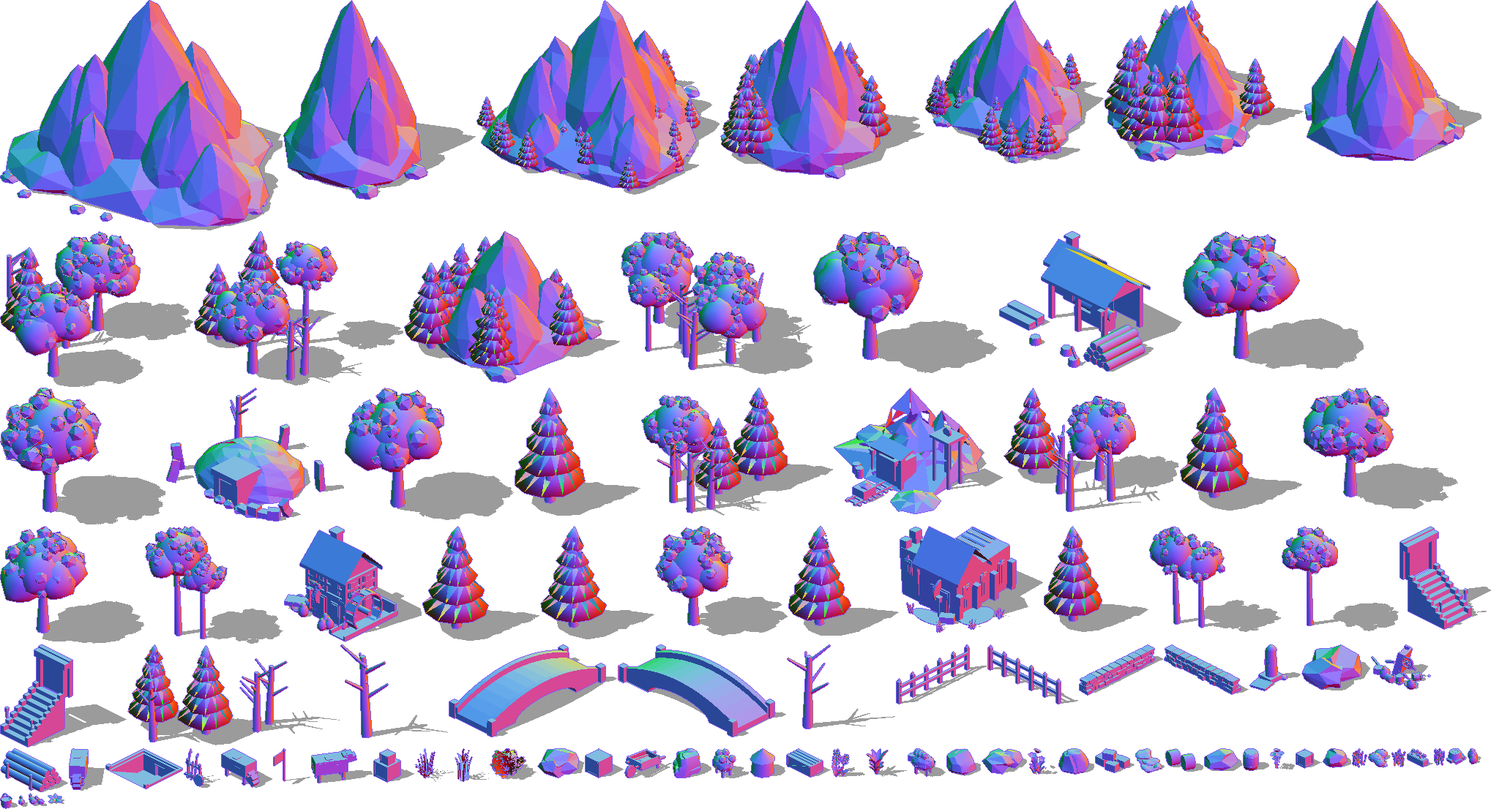
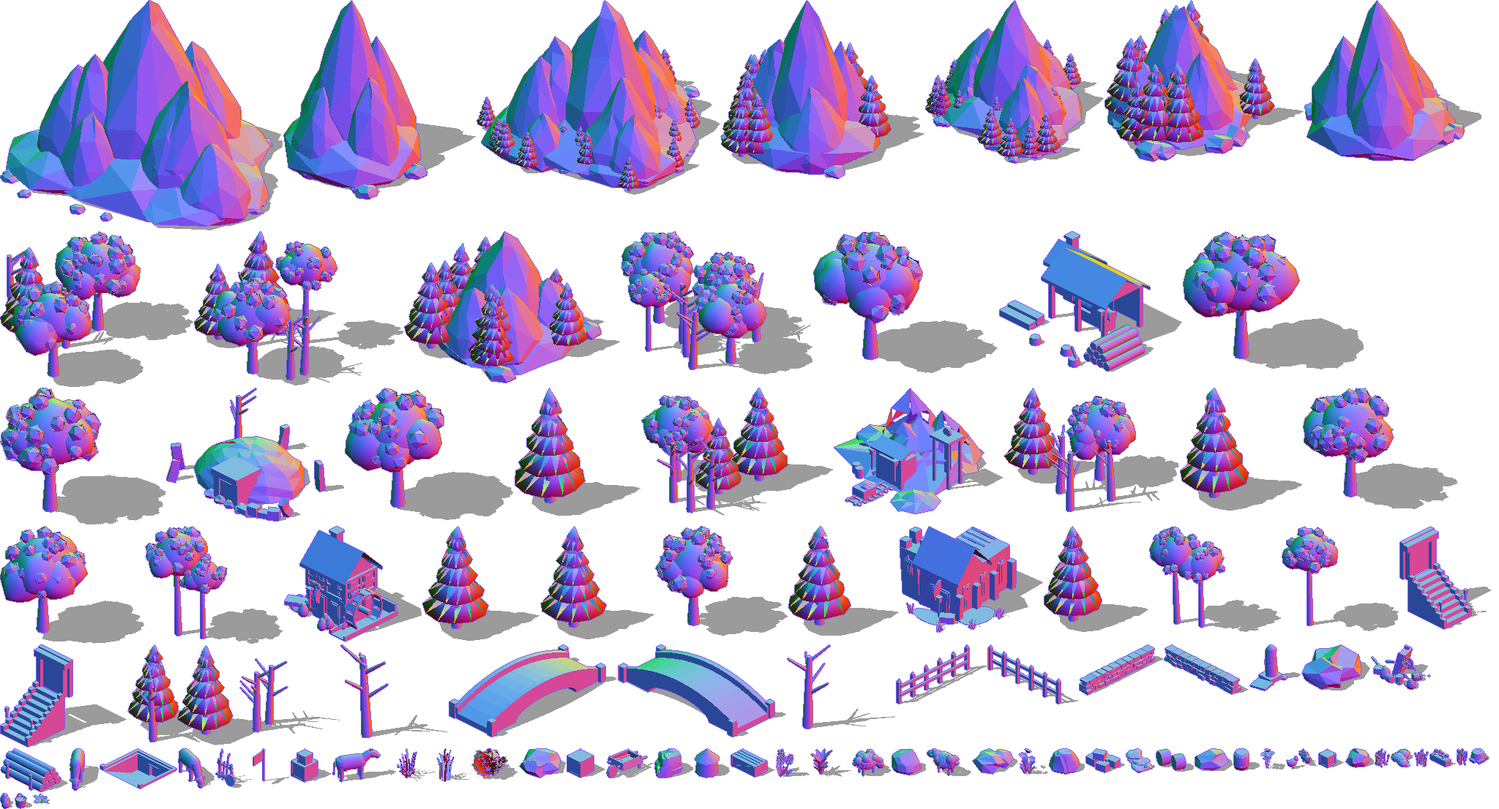
The beasts, critic pass: rounded cows, sheep and hens; herds that place
The owner: the animals are too blocky. The cows were bricks: a box body
with square patches stuck on, a cube head with no neck, posts for legs.
The sheep had a cube head; the hens were a few facets each.

Rebuilt in buildkit.js and re-baked:
- Cows: a capsule barrel with hips and udder, a neck to a tapered head
  with muzzle, ears and curved horns (some dark-headed with a blaze),
  tapered legs on hooves, a tail to a tassel. The patches are painted
  into the hide texture: irregular blobs, three along the spine (what
  the camera sees) and four round the flanks. Vertex and face colours
  smeared or striped them.
- Sheep: a finer fleece of curls, a larger dark wedge of a face with
  ears and topknot, thin legs, a tail.
- Hens: teardrop bodies with cocked tails, comb, beak, wattle and legs,
  some pecking, a quarter larger.

Herds that never placed:
- Thornwick's sheep pasture lay in the forest ring (0 sheep); they now
  graze between the north field and the road (5).
- The Vale's cow pasture placed no cow and now holds the brook; the
  cows graze between the mill track and the river (4).
- The fields' walls are placed before the herds, which keep round them.

Tests 270/270, check green.

Claude-Session: https://claude.ai/code/session_015iJE9saRx1hCYJHRMUYeGn

Changed region(s): [[0.0, 0.9222, 1.0, 1.0]]

diff --git a/src/sim/envfoot.js b/src/sim/envfoot.js
@@ -1,4 +1,4 @@
 // envfoot.js — GENERATED by tools/actor-lab/bake-env.cjs. Do not edit.
 // Ground footprint of each baked environment sprite, in tiles relative to its
 // origin: [x0, y0, x1, y1]. Used for collision and placement.
-export const ENV_FOOT = {"pine_1":[-4.13,-4.18,4.39,4.34],"pine_2":[-4.81,-4.8,5.12,5],"pine_3":[-4.98,-5.01,5,4.96],"pine_4":[-5.13,-5.38,5.48,5.19],"pine_5":[-4.8,-4.87,4.86,4.58],"pine_6":[-4.76,-4.68,4.81,4.84],"oak_1":[-6.75,-7.14,6.33,6.1],"oak_2":[-5.79,-6.35,5.76,6.08],"oak_3":[-6.48,-6.65,6.29,5.96],"oak_4":[-6.59,-6.8,6.43,6.89],"autumn_1":[-6.59,-6.88,6.22,6.33],"autumn_2":[-5.57,-5.73,5.51,5.75],"autumn_3":[-5.1,-5.47,5.08,5.06],"birch_1":[-4.93,-3.24,2.73,4.21],"birch_2":[-4.81,-4.29,4.6,3.62],"birch_3":[-5.17,-3.57,4.88,4.81],"dead_1":[-2.24,-2.81,2.66,2.62],"dead_2":[-2.56,-1.87,2.98,3.05],"grove_1":[-9.86,-8.38,6.88,6.28],"grove_2":[-10.59,-7.13,5.79,8.69],"grove_3":[-10.94,-8,11.15,9.36],"grove_4":[-10.79,-8.1,8.04,10.5],"grove_5":[-9.42,-11.89,11.01,10.13],"grove_6":[-7.78,-9.39,8.91,8.76],"bridge_0":[-3.6,-9.7,3.6,9.7],"bridge_90":[-9.7,-3.6,9.7,3.6],"rock_A":[-2.18,-2.03,2.19,2.41],"rock_B":[-2.03,-2.12,2.06,1.97],"rock_C":[-3.06,-3.35,3.32,3.55],"rock_D":[-2.7,-3.56,2.22,2.22],"rock_E":[-3.72,-3.84,4.19,6.22],"mountain_A_grass_trees":[-10.67,-10.54,11.17,11.99],"mountain_B_grass_trees":[-12.25,-12.31,11.91,11.79],"mountain_C_grass_trees":[-11.39,-10.97,11.31,12.47],"mountain_A":[-10,-10.64,10.64,10.58],"mountain_B":[-11.58,-11.7,12.29,12.11],"mountain_massif_A":[-37.07,-33.75,43.44,35.17],"mountain_massif_B":[-30.31,-33,30.17,32.15],"mountain_massif_C":[-24.46,-24.21,25.04,24.61],"ruin":[-9.37,-9.66,9.14,6.89],"mine_0":[-11.55,-10.95,8.49,11.1],"lumbermill_90":[-10.3,-7.1,9.4,8.9],"barrel":[-0.89,-0.94,0.89,0.94],"crate_A_big":[-1.12,-1.12,1.12,1.19],"crate_A_small":[-0.72,-0.72,0.72,0.79],"crate_B_big":[-1.12,-1.12,1.12,1.19],"crate_long_A":[-2.02,-1.02,2.02,1.09],"sack":[-0.62,-0.49,1.25,1.36],"wheelbarrow":[-1.32,-2.69,1.32,3.23],"weaponrack":[-1.2,-0.19,2.1,0.81],"bucket_water":[-0.65,-0.65,0.65,0.65],"resource_lumber":[-3.33,-1.78,3.33,2.15],"resource_stone":[-1.7,-1.97,1.75,0.83],"flag_red":[-0.16,-0.12,0.16,1.84],"stump":[-1.06,-1.15,1.12,1.1],"fence_0":[-0.25,-6.05,0.3,6.05],"fence_90":[-6.05,-0.3,6.05,0.25],"drywall_0":[-0.83,-5.8,0.8,5.78],"drywall_90":[-5.8,-0.8,5.78,0.83],"stairsup_0":[-2.6,-4.15,2.6,3.1],"stairsup_90":[-4.15,-2.6,3.1,2.6],"stairsdown_0":[-3.38,-3.8,3.38,3.01],"watermill_0":[-6.12,-4.3,5.3,5.38],"chapelruin_0":[-6.67,-5.7,7.63,8.85],"milestone_0":[-1.68,-1.61,1.66,3.1],"wagon_0":[-4.9,-1.55,4.09,3.62],"ug_bush":[-2.03,-2.14,2.18,2.18],"ug_fern":[-3.54,-3.27,3.7,3.52],"ug_plant":[-1.95,-2.32,2.09,2.06],"ug_flowers_1":[-0.86,-1.12,1.22,1.11],"ug_flowers_2":[-1.3,-0.89,1.19,1.02],"ug_grass_1":[-1.48,-1.64,1.6,1.55],"ug_grass_2":[-0.81,-0.96,0.98,1.03],"ug_clover":[-1,-0.94,0.7,0.73],"ug_mushroom":[-1.62,-0.82,1.79,1.94],"rock_F":[-2.07,-1.38,1.8,2.21],"rock_G":[-2.06,-1.39,1.6,1.58],"rock_H":[-2.19,-1.07,1.91,3.1],"wheat_1":[-0.69,-0.8,0.76,0.68],"wheat_2":[-0.71,-0.84,0.73,0.93],"wheat_3":[-0.9,-0.69,0.81,0.84],"cow_1":[-2.3,-1.02,3.05,1.01],"cow_2":[-1.82,-2.99,1.99,2.21],"cow_3":[-2.01,-2.14,2.3,2.62],"sheep_1":[-1.89,-1.61,1.84,1.64],"sheep_2":[-1.87,-1.47,1.74,1.45],"hens_1":[-0.72,-1.38,1.89,1.25],"pumpkins_1":[-1.77,-1.16,1.14,1.73],"hay_1":[-2.02,-1,2.02,1.25],"hay_2":[-1.48,-1.41,1.48,1.5],"planter_1":[-1.3,-0.4,1.3,0.4],"vale_tavern_1":[-8.45,-6.72,7.25,6.3],"vale_inn_1":[-7.1,-4.4,10.48,5.1],"vale_shop_1":[-4.2,-4.2,5.72,5.07],"vale_temple_1":[-6.81,-6.95,4.5,7.84],"vale_well_1":[-2.1,-1.8,2.1,1.8],"vale_house_1":[-4.7,-4,4.7,4],"vale_house_2":[-4.7,-4,4.7,4],"vale_house_3":[-4.7,-4,4.7,4],"vale_housex_1":[-4,-4.7,4,4.7],"vale_housex_2":[-4,-4.7,4,4.7],"vale_farm_1":[-9.63,-5.7,9.77,7.63],"vale_farmx_1":[-5.7,-9.77,7.63,9.63],"vale_keep_1":[-6.37,-6.45,6.37,6.45],"vale_wall_1":[-11,-1.7,11,2.1],"vale_smith_1":[-4.3,-5.36,4.8,5.2],"vale_curtain_1":[-10.09,-2,10.15,2],"vale_curtainy_1":[-2,-10.15,2,10.09],"vale_tower_1":[-4.1,-4.1,4.1,4.1],"vale_gatehousey_1":[-3,-7.5,3,7.5],"fens_tavern_1":[-8.45,-6.72,7.25,6.3],"fens_inn_1":[-7.1,-4.4,10.48,5.1],"fens_shop_1":[-4.2,-4.2,5.72,5.07],"fens_temple_1":[-6.81,-6.95,4.5,7.84],"fens_well_1":[-2.1,-1.8,2.1,1.8],"fens_house_1":[-4.7,-4,4.7,4],"fens_house_2":[-4.7,-4,4.7,4],"fens_house_3":[-4.7,-4,4.7,4],"fens_housex_1":[-4,-4.7,4,4.7],"fens_housex_2":[-4,-4.7,4,4.7],"fens_farm_1":[-9.63,-5.7,9.77,7.63],"fens_farmx_1":[-5.7,-9.77,7.63,9.63],"fens_keep_1":[-6.37,-6.45,6.37,6.45],"fens_wall_1":[-11,-1.7,11,2.1],"fens_smith_1":[-4.3,-5.36,4.8,5.2],"fens_curtain_1":[-10,-1.6,10.3,1.6],"fens_curtainy_1":[-1.6,-10.3,1.6,10],"fens_tower_1":[-3.7,-3.8,3.7,3.8],"fens_gatehousey_1":[-3,-7,5.7,7],"reach_tavern_1":[-8.45,-6.72,7.25,6.3],"reach_inn_1":[-7.1,-4.4,10.48,5.1],"reach_shop_1":[-4.2,-4.2,5.72,5.07],"reach_temple_1":[-6.81,-6.95,4.5,7.84],"reach_well_1":[-2.1,-1.8,2.1,1.8],"reach_house_1":[-4.7,-4,4.7,4],"reach_house_2":[-4.7,-4,4.7,4],"reach_house_3":[-4.7,-4,4.7,4],"reach_housex_1":[-4,-4.7,4,4.7],"reach_housex_2":[-4,-4.7,4,4.7],"reach_farm_1":[-9.63,-5.7,9.77,7.63],"reach_farmx_1":[-5.7,-9.77,7.63,9.63],"reach_keep_1":[-6.37,-6.45,6.37,6.45],"reach_wall_1":[-11,-1.7,11,2.1],"reach_smith_1":[-4.3,-5.36,4.8,5.2],"reach_curtain_1":[-10,-1.6,10.3,1.6],"reach_curtainy_1":[-1.6,-10.3,1.6,10],"reach_tower_1":[-3.7,-3.8,3.7,3.8],"reach_gatehousey_1":[-3,-7,5.7,7],"heights_tavern_1":[-8.45,-6.72,7.25,6.3],"heights_inn_1":[-7.1,-4.4,10.48,5.1],"heights_shop_1":[-4.2,-4.2,5.72,5.07],"heights_temple_1":[-6.81,-6.95,4.5,7.84],"heights_well_1":[-2.1,-1.8,2.1,1.8],"heights_house_1":[-4.7,-4,4.7,4],"heights_house_2":[-4.7,-4,4.7,4],"heights_house_3":[-4.7,-4,4.7,4],"heights_housex_1":[-4,-4.7,4,4.7],"heights_housex_2":[-4,-4.7,4,4.7],"heights_farm_1":[-9.63,-5.7,9.77,7.63],"heights_farmx_1":[-5.7,-9.77,7.63,9.63],"heights_keep_1":[-6.37,-6.45,6.37,6.45],"heights_wall_1":[-11,-1.7,11,2.1],"heights_smith_1":[-4.3,-5.36,4.8,5.2],"heights_curtain_1":[-10,-1.6,10.3,1.6],"heights_curtainy_1":[-1.6,-10.3,1.6,10],"heights_tower_1":[-3.7,-3.8,3.7,3.8],"heights_gatehousey_1":[-3,-7,5.7,7]};
+export const ENV_FOOT = {"pine_1":[-4.13,-4.18,4.39,4.34],"pine_2":[-4.81,-4.8,5.12,5],"pine_3":[-4.98,-5.01,5,4.96],"pine_4":[-5.13,-5.38,5.48,5.19],"pine_5":[-4.8,-4.87,4.86,4.58],"pine_6":[-4.76,-4.68,4.81,4.84],"oak_1":[-6.75,-7.14,6.33,6.1],"oak_2":[-5.79,-6.35,5.76,6.08],"oak_3":[-6.48,-6.65,6.29,5.96],"oak_4":[-6.59,-6.8,6.43,6.89],"autumn_1":[-6.59,-6.88,6.22,6.33],"autumn_2":[-5.57,-5.73,5.51,5.75],"autumn_3":[-5.1,-5.47,5.08,5.06],"birch_1":[-4.93,-3.24,2.73,4.21],"birch_2":[-4.81,-4.29,4.6,3.62],"birch_3":[-5.17,-3.57,4.88,4.81],"dead_1":[-2.24,-2.81,2.66,2.62],"dead_2":[-2.56,-1.87,2.98,3.05],"grove_1":[-9.86,-8.38,6.88,6.28],"grove_2":[-10.59,-7.13,5.79,8.69],"grove_3":[-10.94,-8,11.15,9.36],"grove_4":[-10.79,-8.1,8.04,10.5],"grove_5":[-9.42,-11.89,11.01,10.13],"grove_6":[-7.78,-9.39,8.91,8.76],"bridge_0":[-3.6,-9.7,3.6,9.7],"bridge_90":[-9.7,-3.6,9.7,3.6],"rock_A":[-2.18,-2.03,2.19,2.41],"rock_B":[-2.03,-2.12,2.06,1.97],"rock_C":[-3.06,-3.35,3.32,3.55],"rock_D":[-2.7,-3.56,2.22,2.22],"rock_E":[-3.72,-3.84,4.19,6.22],"mountain_A_grass_trees":[-10.67,-10.54,11.17,11.99],"mountain_B_grass_trees":[-12.25,-12.31,11.91,11.79],"mountain_C_grass_trees":[-11.39,-10.97,11.31,12.47],"mountain_A":[-10,-10.64,10.64,10.58],"mountain_B":[-11.58,-11.7,12.29,12.11],"mountain_massif_A":[-37.07,-33.75,43.44,35.17],"mountain_massif_B":[-30.31,-33,30.17,32.15],"mountain_massif_C":[-24.46,-24.21,25.04,24.61],"ruin":[-9.37,-9.66,9.14,6.89],"mine_0":[-11.55,-10.95,8.49,11.1],"lumbermill_90":[-10.3,-7.1,9.4,8.9],"barrel":[-0.89,-0.94,0.89,0.94],"crate_A_big":[-1.12,-1.12,1.12,1.19],"crate_A_small":[-0.72,-0.72,0.72,0.79],"crate_B_big":[-1.12,-1.12,1.12,1.19],"crate_long_A":[-2.02,-1.02,2.02,1.09],"sack":[-0.62,-0.49,1.25,1.36],"wheelbarrow":[-1.32,-2.69,1.32,3.23],"weaponrack":[-1.2,-0.19,2.1,0.81],"bucket_water":[-0.65,-0.65,0.65,0.65],"resource_lumber":[-3.33,-1.78,3.33,2.15],"resource_stone":[-1.7,-1.97,1.75,0.83],"flag_red":[-0.16,-0.12,0.16,1.84],"stump":[-1.06,-1.15,1.12,1.1],"fence_0":[-0.25,-6.05,0.3,6.05],"fence_90":[-6.05,-0.3,6.05,0.25],"drywall_0":[-0.83,-5.8,0.8,5.78],"drywall_90":[-5.8,-0.8,5.78,0.83],"stairsup_0":[-2.6,-4.15,2.6,3.1],"stairsup_90":[-4.15,-2.6,3.1,2.6],"stairsdown_0":[-3.38,-3.8,3.38,3.01],"watermill_0":[-6.12,-4.3,5.3,5.38],"chapelruin_0":[-6.67,-5.7,7.63,8.85],"milestone_0":[-1.68,-1.61,1.66,3.1],"wagon_0":[-4.9,-1.55,4.09,3.62],"ug_bush":[-2.03,-2.14,2.18,2.18],"ug_fern":[-3.54,-3.27,3.7,3.52],"ug_plant":[-1.95,-2.32,2.09,2.06],"ug_flowers_1":[-0.86,-1.12,1.22,1.11],"ug_flowers_2":[-1.3,-0.89,1.19,1.02],"ug_grass_1":[-1.48,-1.64,1.6,1.55],"ug_grass_2":[-0.81,-0.96,0.98,1.03],"ug_clover":[-1,-0.94,0.7,0.73],"ug_mushroom":[-1.62,-0.82,1.79,1.94],"rock_F":[-2.07,-1.38,1.8,2.21],"rock_G":[-2.06,-1.39,1.6,1.58],"rock_H":[-2.19,-1.07,1.91,3.1],"wheat_1":[-0.69,-0.8,0.76,0.68],"wheat_2":[-0.71,-0.84,0.73,0.93],"wheat_3":[-0.9,-0.69,0.81,0.84],"cow_1":[-2.23,-1.26,3.32,1.47],"cow_2":[-1.59,-3.37,2.14,2.06],"cow_3":[-1.78,-1.91,2.44,2.81],"sheep_1":[-2.67,-1.44,1.86,1.44],"sheep_2":[-1.46,-2.63,1.49,1.85],"hens_1":[-1.36,-1.34,1.27,2.35],"pumpkins_1":[-1.77,-1.16,1.14,1.73],"hay_1":[-2.02,-1,2.02,1.25],"hay_2":[-1.48,-1.41,1.48,1.5],"planter_1":[-1.3,-0.4,1.3,0.4],"vale_tavern_1":[-8.45,-6.72,7.25,6.3],"vale_inn_1":[-7.1,-4.4,10.48,5.1],"vale_shop_1":[-4.2,-4.2,5.72,5.07],"vale_temple_1":[-6.81,-6.95,4.5,7.84],"vale_well_1":[-2.1,-1.8,2.1,1.8],"vale_house_1":[-4.7,-4,4.7,4],"vale_house_2":[-4.7,-4,4.7,4],"vale_house_3":[-4.7,-4,4.7,4],"vale_housex_1":[-4,-4.7,4,4.7],"vale_housex_2":[-4,-4.7,4,4.7],"vale_farm_1":[-9.63,-5.7,9.77,7.63],"vale_farmx_1":[-5.7,-9.77,7.63,9.63],"vale_keep_1":[-6.37,-6.45,6.37,6.45],"vale_wall_1":[-11,-1.7,11,2.1],"vale_smith_1":[-4.3,-5.36,4.8,5.2],"vale_curtain_1":[-10.09,-2,10.15,2],"vale_curtainy_1":[-2,-10.15,2,10.09],"vale_tower_1":[-4.1,-4.1,4.1,4.1],"vale_gatehousey_1":[-3,-7.5,3,7.5],"fens_tavern_1":[-8.45,-6.72,7.25,6.3],"fens_inn_1":[-7.1,-4.4,10.48,5.1],"fens_shop_1":[-4.2,-4.2,5.72,5.07],"fens_temple_1":[-6.81,-6.95,4.5,7.84],"fens_well_1":[-2.1,-1.8,2.1,1.8],"fens_house_1":[-4.7,-4,4.7,4],"fens_house_2":[-4.7,-4,4.7,4],"fens_house_3":[-4.7,-4,4.7,4],"fens_housex_1":[-4,-4.7,4,4.7],"fens_housex_2":[-4,-4.7,4,4.7],"fens_farm_1":[-9.63,-5.7,9.77,7.63],"fens_farmx_1":[-5.7,-9.77,7.63,9.63],"fens_keep_1":[-6.37,-6.45,6.37,6.45],"fens_wall_1":[-11,-1.7,11,2.1],"fens_smith_1":[-4.3,-5.36,4.8,5.2],"fens_curtain_1":[-10,-1.6,10.3,1.6],"fens_curtainy_1":[-1.6,-10.3,1.6,10],"fens_tower_1":[-3.7,-3.8,3.7,3.8],"fens_gatehousey_1":[-3,-7,5.7,7],"reach_tavern_1":[-8.45,-6.72,7.25,6.3],"reach_inn_1":[-7.1,-4.4,10.48,5.1],"reach_shop_1":[-4.2,-4.2,5.72,5.07],"reach_temple_1":[-6.81,-6.95,4.5,7.84],"reach_well_1":[-2.1,-1.8,2.1,1.8],"reach_house_1":[-4.7,-4,4.7,4],"reach_house_2":[-4.7,-4,4.7,4],"reach_house_3":[-4.7,-4,4.7,4],"reach_housex_1":[-4,-4.7,4,4.7],"reach_housex_2":[-4,-4.7,4,4.7],"reach_farm_1":[-9.63,-5.7,9.77,7.63],"reach_farmx_1":[-5.7,-9.77,7.63,9.63],"reach_keep_1":[-6.37,-6.45,6.37,6.45],"reach_wall_1":[-11,-1.7,11,2.1],"reach_smith_1":[-4.3,-5.36,4.8,5.2],"reach_curtain_1":[-10,-1.6,10.3,1.6],"reach_curtainy_1":[-1.6,-10.3,1.6,10],"reach_tower_1":[-3.7,-3.8,3.7,3.8],"reach_gatehousey_1":[-3,-7,5.7,7],"heights_tavern_1":[-8.45,-6.72,7.25,6.3],"heights_inn_1":[-7.1,-4.4,10.48,5.1],"heights_shop_1":[-4.2,-4.2,5.72,5.07],"heights_temple_1":[-6.81,-6.95,4.5,7.84],"heights_well_1":[-2.1,-1.8,2.1,1.8],"heights_house_1":[-4.7,-4,4.7,4],"heights_house_2":[-4.7,-4,4.7,4],"heights_house_3":[-4.7,-4,4.7,4],"heights_housex_1":[-4,-4.7,4,4.7],"heights_housex_2":[-4,-4.7,4,4.7],"heights_farm_1":[-9.63,-5.7,9.77,7.63],"heights_farmx_1":[-5.7,-9.77,7.63,9.63],"heights_keep_1":[-6.37,-6.45,6.37,6.45],"heights_wall_1":[-11,-1.7,11,2.1],"heights_smith_1":[-4.3,-5.36,4.8,5.2],"heights_curtain_1":[-10,-1.6,10.3,1.6],"heights_curtainy_1":[-1.6,-10.3,1.6,10],"heights_tower_1":[-3.7,-3.8,3.7,3.8],"heights_gatehousey_1":[-3,-7,5.7,7]};

diff --git a/tools/actor-lab/buildkit.js b/tools/actor-lab/buildkit.js
@@ -767,39 +767,83 @@ function wheatMesh(r, v) {
 // Farmyard life (critic pass 11e: the reference's village is busy with cows, hay, pumpkins and flowers; ours
 // stood bare). Low-poly, built in code like the rest; animals stand still, grazing or looking about.
 function lump(geo, r, amt) { const p = geo.attributes.position; for (let i = 0; i < p.count; i++) p.setXYZ(i, p.getX(i) * (1 + (r() - 0.5) * amt), p.getY(i) * (1 + (r() - 0.5) * amt), p.getZ(i) * (1 + (r() - 0.5) * amt)); geo.computeVertexNormals(); return geo; }
-function cowMesh(r, v) {
-  const g = new THREE.Group(), white = flat('#d6cfc0'), black = flat('#262020'), pink = flat('#d08a7c'), horn = flat('#d8cfb4');
-  const body = new THREE.Mesh(new THREE.BoxGeometry(0.4, 0.17, 0.19), white); body.position.y = 0.2; g.add(body);
-  for (const [px, py] of [[-0.11, 0.23], [0.07, 0.18]]) {           // two patches, proud of the hide on every side, one over the back
-    const w = 0.07 + r() * 0.03, h = 0.07 + r() * 0.03, pt = new THREE.Mesh(new THREE.BoxGeometry(w, h, 0.2), black);
-    pt.position.set(px + (r() - 0.5) * 0.03, py, 0); g.add(pt);
+// The farmyard (critic pass 11e, re-made 2026-10-03: the owner found the beasts too blocky: a brick of a cow with
+// square patches stuck on, a cube for a head, no neck; posts for a sheep's legs; hens of a few facets). Now rounded:
+// a barrel of a body with patches painted into the hide, a neck, a tapered head and muzzle, ears, curved horns,
+// tapered legs, an udder and a tasselled tail; a fleece over a dark wedge face; hens as teardrops with a cocked tail.
+const smooth = (color) => new THREE.MeshStandardMaterial({ color: new THREE.Color(color), roughness: 0.9 });
+// a piebald hide, painted: dark blobs (each a few overlapping ellipses, so its edge is irregular) on a pale coat,
+// wrapped round the body by its UVs (vertex or face colours smeared, or striped along the capsule's long faces)
+function hideTex(r, base, dark) {
+  const S = 64, c = document.createElement('canvas'); c.width = c.height = S; const x = c.getContext('2d');
+  x.fillStyle = base; x.fillRect(0, 0, S, S); x.fillStyle = dark;
+  // three over the back, along the spine (a quarter of the way round the capsule, u 0.25: what the camera sees most),
+  // larger, then four round the barrel for the flanks
+  for (let i = 0; i < 7; i++) {
+    const back = i < 3, cx = back ? S * 0.25 + (r() - 0.5) * 8 : (i - 3 + 0.2 + r() * 0.6) * S / 4, cy = back ? 10 + i * 22 + (r() - 0.5) * 6 : 8 + r() * (S - 16), k0 = back ? 1.5 : 1;
+    for (let k = 0; k < 3; k++) for (const ox of [-S, 0, S]) { x.beginPath(); x.ellipse(cx + ox + (r() - 0.5) * 9, cy + (r() - 0.5) * 7, (4 + r() * 5) * k0, (3 + r() * 4) * k0, r() * 3, 0, 6.29); x.fill(); }
   }
-  const top = new THREE.Mesh(new THREE.BoxGeometry(0.08, 0.012, 0.09), black); top.position.set(-0.02, 0.29, 0.02); g.add(top);
-  const graze = v % 2 === 0, head = new THREE.Group(); head.position.set(0.22, graze ? 0.1 : 0.27, 0); head.rotation.z = graze ? -0.6 : 0.1; g.add(head);
-  const hd = new THREE.Mesh(new THREE.BoxGeometry(0.11, 0.1, 0.1), white); head.add(hd);
-  const hp = new THREE.Mesh(new THREE.BoxGeometry(0.06, 0.104, 0.104), black); hp.position.x = -0.03; head.add(hp);
-  const muz = new THREE.Mesh(new THREE.BoxGeometry(0.05, 0.06, 0.09), pink); muz.position.set(0.07, -0.02, 0); head.add(muz);
-  for (const sz of [-1, 1]) { const h = new THREE.Mesh(new THREE.ConeGeometry(0.012, 0.05, 4), horn); h.position.set(-0.01, 0.07, sz * 0.045); h.rotation.x = sz * 0.6; head.add(h); const e = new THREE.Mesh(new THREE.BoxGeometry(0.02, 0.025, 0.04), black); e.position.set(-0.02, 0.03, sz * 0.065); head.add(e); }
-  for (const [x, z] of [[0.15, 0.06], [0.15, -0.06], [-0.15, 0.06], [-0.15, -0.06]]) { const l = new THREE.Mesh(new THREE.CylinderGeometry(0.018, 0.016, 0.12, 5), white); l.position.set(x, 0.06, z); g.add(l); const hf = new THREE.Mesh(new THREE.BoxGeometry(0.03, 0.02, 0.03), black); hf.position.set(x, 0.01, z); g.add(hf); }
-  const tail = new THREE.Mesh(new THREE.CylinderGeometry(0.006, 0.006, 0.14, 4), white); tail.position.set(-0.21, 0.17, 0); tail.rotation.z = 0.2; g.add(tail);
+  const t = new THREE.CanvasTexture(c); t.magFilter = THREE.NearestFilter; t.minFilter = THREE.NearestFilter; t.wrapS = THREE.RepeatWrapping; t.colorSpace = THREE.SRGBColorSpace;
+  return t;
+}
+const ellipsoid = (r, sx, sy, sz, m, x, y, z, parent, seg = 10) => { const e = new THREE.Mesh(new THREE.SphereGeometry(r, seg, Math.max(6, seg - 2)), m); e.scale.set(sx, sy, sz); e.position.set(x, y, z); parent.add(e); return e; };
+function limb(parent, m, x0, y0, z0, x1, y1, z1, r0, r1) {      // a tapered cylinder from one point to another
+  const a = new THREE.Vector3(x0, y0, z0), b = new THREE.Vector3(x1, y1, z1), len = a.distanceTo(b);
+  const c = new THREE.Mesh(new THREE.CylinderGeometry(r1, r0, len, 7), m); c.position.copy(a).add(b).multiplyScalar(0.5);
+  c.quaternion.setFromUnitVectors(new THREE.Vector3(0, 1, 0), b.clone().sub(a).normalize()); parent.add(c); return c;
+}
+function cowMesh(r, v) {
+  const g = new THREE.Group(), W = '#d6cfc0', K = '#262020', white = smooth(W), black = smooth(K), pink = smooth('#c08478'), horn = smooth('#d8cfb4');
+  // the barrel: a capsule along x, a little deeper than wide, in a painted piebald hide
+  const geo = new THREE.CapsuleGeometry(0.085, 0.2, 8, 20); geo.rotateZ(Math.PI / 2); geo.scale(1, 1.05, 0.9);
+  const body = new THREE.Mesh(geo, new THREE.MeshStandardMaterial({ map: hideTex(r, W, K), roughness: 0.9 })); body.position.y = 0.215; g.add(body);
+  ellipsoid(0.05, 1.2, 0.8, 1.3, white, -0.13, 0.25, 0, g);                   // the hips
+  ellipsoid(0.03, 1.2, 0.8, 1, pink, -0.07, 0.13, 0, g);                      // the udder
+  // legs, tapered, a dark hoof at each foot
+  for (const [x, z] of [[0.12, 0.05], [0.12, -0.05], [-0.13, 0.05], [-0.13, -0.05]]) {
+    limb(g, white, x, 0.18, z, x + (r() - 0.5) * 0.02, 0.025, z, 0.024, 0.016);
+    const hf = new THREE.Mesh(new THREE.CylinderGeometry(0.017, 0.019, 0.025, 7), black); hf.position.set(x, 0.012, z); g.add(hf);
+  }
+  // the neck and head: grazing (head down to the grass) or looking up
+  const graze = v % 2 === 0, hx = graze ? 0.26 : 0.27, hy = graze ? 0.07 : 0.29, darkHead = v % 3 === 1, hm = darkHead ? black : white;
+  limb(g, white, 0.15, 0.24, 0, hx - 0.03, hy + 0.02, 0, 0.055, 0.04);
+  const head = new THREE.Group(); head.position.set(hx, hy, 0); head.rotation.z = graze ? -1.0 : -0.25; g.add(head);
+  ellipsoid(0.045, 1.35, 0.95, 0.9, hm, 0.01, 0, 0, head);                     // the skull, longer than deep
+  ellipsoid(0.034, 1, 0.85, 1.05, pink, 0.065, -0.012, 0, head);              // the muzzle
+  if (darkHead) ellipsoid(0.02, 1.6, 0.5, 0.6, white, 0.02, 0.03, 0, head);   // a white blaze
+  for (const sz of [-1, 1]) {
+    const e = ellipsoid(0.022, 0.5, 0.35, 1, hm, -0.015, 0.025, sz * 0.05, head); e.rotation.x = sz * 0.5;   // ears, out to the side
+    const h = new THREE.Mesh(new THREE.ConeGeometry(0.009, 0.04, 6), horn); h.position.set(-0.005, 0.045, sz * 0.03); h.rotation.x = sz * -0.9; h.rotation.z = 0.3; head.add(h);
+  }
+  // the tail: hanging from the rump to a dark tassel
+  limb(g, white, -0.2, 0.25, 0, -0.215, 0.11, 0.01, 0.007, 0.006);
+  ellipsoid(0.014, 0.8, 1.6, 0.8, black, -0.215, 0.1, 0.01, g, 6);
   g.rotation.y = r() * 0.6 - 0.3; return g;
 }
 function sheepMesh(r, v) {
-  const g = new THREE.Group(), wool = flat('#ece6d6'), face = flat('#2b2622');
-  const body = new THREE.Mesh(lump(new THREE.IcosahedronGeometry(0.11, 1), r, 0.18), wool); body.scale.set(1.35, 0.9, 1); body.position.y = 0.15; g.add(body);
-  for (let i = 0; i < 6; i++) { const t = new THREE.Mesh(new THREE.IcosahedronGeometry(0.05, 0), wool); t.position.set((r() - 0.5) * 0.22, 0.2 + r() * 0.05, (r() - 0.5) * 0.14); g.add(t); }   // the fleece's tufts
-  const graze = v % 2 === 1, hd = new THREE.Mesh(new THREE.BoxGeometry(0.07, 0.07, 0.06), face); hd.position.set(0.15, graze ? 0.07 : 0.18, 0); g.add(hd);
-  for (const [x, z] of [[0.07, 0.05], [0.07, -0.05], [-0.07, 0.05], [-0.07, -0.05]]) { const l = new THREE.Mesh(new THREE.CylinderGeometry(0.012, 0.012, 0.09, 4), face); l.position.set(x, 0.045, z); g.add(l); }
+  const g = new THREE.Group(), wool = flat('#ece6d6'), face = smooth('#2b2622');
+  const body = new THREE.Mesh(lump(new THREE.IcosahedronGeometry(0.11, 2), r, 0.12), wool); body.scale.set(1.35, 0.9, 1); body.position.y = 0.155; g.add(body);
+  for (let i = 0; i < 12; i++) { const t = new THREE.Mesh(new THREE.IcosahedronGeometry(0.035 + r() * 0.02, 1), wool); const a = r() * 6.28; t.position.set(Math.cos(a) * 0.12, 0.17 + r() * 0.07, Math.sin(a) * 0.08); g.add(t); }   // the fleece's curls
+  const graze = v % 2 === 1, head = new THREE.Group(); head.position.set(0.18, graze ? 0.07 : 0.2, 0); head.rotation.z = graze ? -0.9 : -0.2; g.add(head);
+  ellipsoid(0.045, 1.4, 0.95, 0.85, face, 0.015, 0, 0, head);                 // a dark wedge of a face
+  const cap = new THREE.Mesh(new THREE.IcosahedronGeometry(0.036, 1), wool); cap.position.set(-0.025, 0.03, 0); head.add(cap);   // the topknot
+  for (const sz of [-1, 1]) { const e = ellipsoid(0.024, 1.2, 0.4, 0.6, face, -0.005, 0.008, sz * 0.05, head); e.rotation.y = sz * 0.6; }   // ears
+  for (const [x, z] of [[0.07, 0.045], [0.07, -0.045], [-0.07, 0.045], [-0.07, -0.045]]) limb(g, face, x, 0.1, z, x, 0.0, z, 0.011, 0.008);
+  const tail = new THREE.Mesh(new THREE.IcosahedronGeometry(0.025, 1), wool); tail.position.set(-0.16, 0.17, 0); g.add(tail);
   g.rotation.y = r() * 6.28; return g;
 }
 function hensMesh(r) {
-  const g = new THREE.Group(), feather = [flat('#efe8da'), flat('#a5652e'), flat('#efe8da')], comb = flat('#c8322a'), beak = flat('#d8a23a');
+  const g = new THREE.Group(), feather = [smooth('#efe8da'), smooth('#a5652e'), smooth('#efe8da'), smooth('#5a3a22')], comb = smooth('#c8322a'), beak = smooth('#d8a23a');
   for (let i = 0; i < 4; i++) {
-    const h = new THREE.Group(); h.position.set((r() - 0.5) * 0.3, 0, (r() - 0.5) * 0.3); h.rotation.y = r() * 6.28; g.add(h);
-    const b = new THREE.Mesh(new THREE.IcosahedronGeometry(0.035, 0), feather[i % 3]); b.scale.set(1.3, 1, 1); b.position.y = 0.05; h.add(b);
-    const hd = new THREE.Mesh(new THREE.BoxGeometry(0.025, 0.028, 0.022), feather[i % 3]); hd.position.set(0.04, 0.08, 0); h.add(hd);
-    const c = new THREE.Mesh(new THREE.BoxGeometry(0.014, 0.012, 0.006), comb); c.position.set(0.04, 0.1, 0); h.add(c);
-    const k = new THREE.Mesh(new THREE.BoxGeometry(0.012, 0.008, 0.008), beak); k.position.set(0.058, 0.078, 0); h.add(k);
+    const h = new THREE.Group(), peck = r() < 0.4; h.position.set((r() - 0.5) * 0.3, 0, (r() - 0.5) * 0.3); h.rotation.y = r() * 6.28; h.scale.setScalar(1.25); g.add(h);
+    const f = feather[i % 4], body = new THREE.Group(); body.position.y = 0.055; body.rotation.z = peck ? -0.5 : 0; h.add(body);
+    ellipsoid(0.034, 1.35, 1, 0.9, f, 0, 0, 0, body);                         // a teardrop body
+    const tail = new THREE.Mesh(new THREE.ConeGeometry(0.022, 0.05, 7), f); tail.position.set(-0.04, 0.025, 0); tail.rotation.z = 0.7; body.add(tail);   // cocked up behind
+    ellipsoid(0.019, 1, 1, 0.95, f, 0.04, 0.035, 0, body);                     // the head
+    ellipsoid(0.01, 1.3, 0.8, 0.4, comb, 0.04, 0.056, 0, body, 6);            // comb
+    ellipsoid(0.006, 0.8, 1.3, 0.6, comb, 0.056, 0.022, 0, body, 6);          // wattle
+    const k = new THREE.Mesh(new THREE.ConeGeometry(0.006, 0.016, 5), beak); k.position.set(0.064, 0.034, 0); k.rotation.z = -Math.PI / 2; body.add(k);
+    for (const sz of [-1, 1]) limb(h, beak, 0, 0.035, sz * 0.012, 0.005, 0, sz * 0.014, 0.004, 0.003);
   }
   return g;
 }

diff --git a/src/sim/outdoor.js b/src/sim/outdoor.js
@@ -246,7 +246,7 @@ function wheat(o) {
 // A field's back edges (north, west: the camera sees them past the crop) get a dry-stone wall or a rail fence, in
 // 12-tile runs (the last may run on past the corner), a run left out wherever it would cross a road or something placed (critic pass 11g: the reference's
 // fields are walled; ours lay open on the grass). The front edges stay open, so a field never walls a road off.
-// No draws: placed after the herds and before the wheat (which grows round it) and the undergrowth.
+// No draws: placed before the herds and the wheat (which keep round it) and the undergrowth.
 function bound(o, kindOf) {
   o.fields.forEach((f, k) => {
     const kind = kindOf(k), len = ENV_FOOT[kind + '_90'][2] - ENV_FOOT[kind + '_90'][0];
@@ -374,11 +374,12 @@ function buildTown(seed, region) {
     return n > 0.55 && rng() < 0.4 ? pick(rng, TREE_SINGLE) : rng() < 0.05 ? pick(rng, ROCKS) : null;
   });
   forestRing(o, rng, 10);
+  bound(o, () => 'fence');                                         // the fields' fences first: the beasts graze round them
   { const fr = mulberry32(streamSeed(seed, 4417));                // the farms' beasts, the houses' doorsteps
-    herd(o, fr, ['cow_1', 'cow_2', 'cow_3'], 160, 34, 4, 6); herd(o, fr, ['sheep_1', 'sheep_2'], 160, 98, 5, 6);
+    herd(o, fr, ['cow_1', 'cow_2', 'cow_3'], 160, 34, 4, 6); herd(o, fr, ['sheep_1', 'sheep_2'], 142, 66, 5, 6);
     herd(o, fr, ['hens_1'], 136, 58, 2, 3); herd(o, fr, ['hay_1', 'hay_2', 'pumpkins_1'], 154, 52, 3, 4); herd(o, fr, ['pumpkins_1', 'hay_1'], 152, 116, 2, 3);
     dress(o, fr, (x, y) => hypot(x - o.hub.x, y - o.hub.y) < o.hub.r); }
-  bound(o, () => 'fence'); wheat(o);
+  wheat(o);
   // the undergrowth: the walls' verges (in and out), the stream's banks, the gardens, flower patches; never the square
   undergrowth(o, -10, -10, 150, 130, 3, (x, y) => {
     if (hypot(x - o.hub.x, y - o.hub.y) < o.hub.r + 4) return -1;
@@ -576,11 +577,12 @@ function buildOverland(seed) {
   }
   scatter(o, trng, 0, 0, 260, 260, 10, (x, y) => (trng() < 0.01 && clear(x, y, 'rock_F') ? pick(trng, ROCKS) : null));
   forestRing(o, rng, 6);
+  bound(o, (k) => (k % 2 ? 'fence' : 'drywall'));                  // the fields' walls first: the beasts graze round them
   { const fr = mulberry32(streamSeed(seed, 4417));                // the farms' beasts, hay at the mill and the camp
-    herd(o, fr, ['cow_1', 'cow_2', 'cow_3'], 80, 118, 4, 6); herd(o, fr, ['sheep_1', 'sheep_2'], 34, 92, 6, 8); herd(o, fr, ['sheep_1', 'sheep_2'], 186, 168, 4, 6);
+    herd(o, fr, ['cow_1', 'cow_2', 'cow_3'], 100, 128, 4, 6); herd(o, fr, ['sheep_1', 'sheep_2'], 34, 92, 6, 8); herd(o, fr, ['sheep_1', 'sheep_2'], 186, 168, 4, 6);
     herd(o, fr, ['hens_1'], 58, 132, 2, 3); herd(o, fr, ['hay_1', 'hay_2', 'pumpkins_1'], 50, 100, 3, 4); herd(o, fr, ['hay_2', 'sack', 'barrel'], 86, 114, 3, 3);
     herd(o, fr, ['pumpkins_1', 'hay_1'], 36, 130, 2, 3); }
-  bound(o, (k) => (k % 2 ? 'fence' : 'drywall')); wheat(o);
+  wheat(o);
   // the undergrowth: thick at the woods' and forests' edges and along the river's banks, in patches in the meadows;
   // clear of every site and its way in
   const nearWater = (x, y) => { for (const [dx, dy] of [[0, 0], [2.5, 0], [-2.5, 0], [0, 2.5], [0, -2.5]]) { const g = groundAt(o, x + dx, y + dy).g; if (g === G.WATER || g === G.BANK) return true; } return false; };

diff --git a/docs/art-critic-pass-11.md b/docs/art-critic-pass-11.md
@@ -516,6 +516,37 @@ The owner, from a phone at dusk: approaching Thornwick and then entering it, the
     the map against 42.
 - **Test:** `test/overland.test.mjs` checks every tree's crown, in six seeds, on the Vale and in Thornwick.
 
+## Iteration 11o: the beasts, critic pass (shipped 2026-10-03)
+
+![The cows, sheep and hens baked before and after (×4), and Thornwick's east farm in the game](img/art11/o-beasts.jpg)
+
+The owner: the animals are too blocky.
+
+**The critique** (the bake at ×5, and in the game at day and dusk):
+- **The cows were bricks:** a box body with square patches stuck on proud of the hide, a cube head straight on the
+  body with no neck, and posts for legs. Head-on, a cow was a block.
+- **The sheep's fleece read well, but not the rest:** a black cube of a head and posts for legs.
+- **The hens were a few facets each,** too small to read as birds.
+
+**What changed** (`buildkit.js`; re-baked):
+- **Cows:**
+  - a barrel of a body (a capsule, a little deeper than wide) with hips and an udder, and a neck to a tapered head;
+  - a pink muzzle, ears out to the side, small curved horns, and on some a dark head with a white blaze;
+  - tapered legs on dark hooves, and a tail hanging to a tassel.
+  - **The patches are painted into the hide:** a texture of blobs, each a few overlapping ellipses so its edge is
+    irregular. Three sit along the spine, which the camera sees most, and four round the flanks. Colouring
+    vertices or faces smeared the patches, or striped them along the capsule's long faces.
+- **Sheep:** a finer fleece of curls, a larger dark wedge of a face with ears and a woolly topknot, thin legs, and
+  a tail.
+- **Hens:** teardrop bodies with a cocked tail, a head with comb, beak and wattle, and legs; some pecking; a
+  quarter larger.
+- **Herds that never placed:**
+  - Thornwick's sheep pasture lay in the forest ring, so no sheep ever stood there. They now graze between the
+    north field and the road: 5 sheep.
+  - The Vale's cow pasture never placed a cow, and the new brook runs through it. The cows now graze on open grass
+    between the mill track and the river: 4 cows.
+  - The fields' walls are now placed before the herds, which graze round them.
+
 ## Where it stands, and what's next
 
 Scored on detail only (the owner's direction); light and colour are the game's own and no longer measured against
